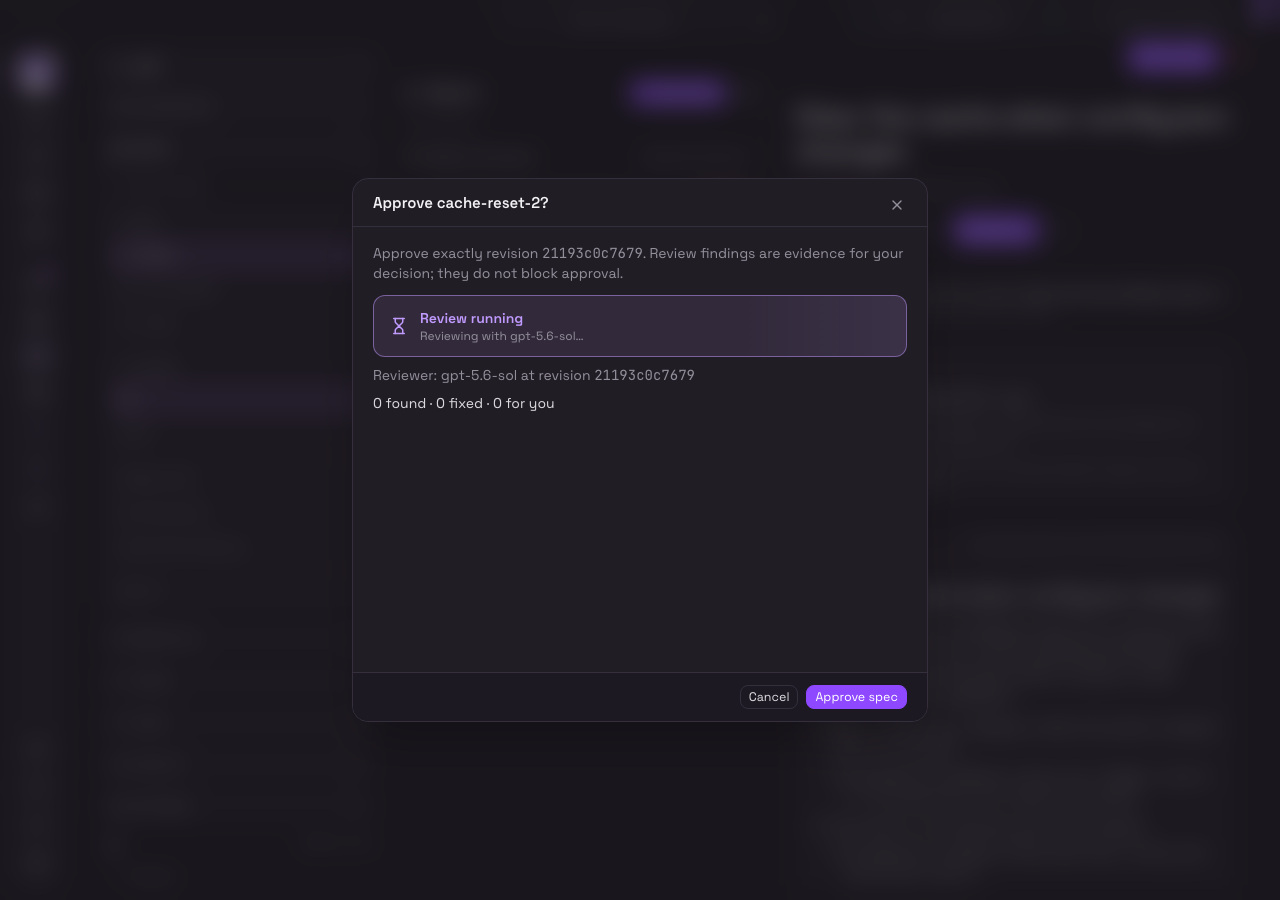
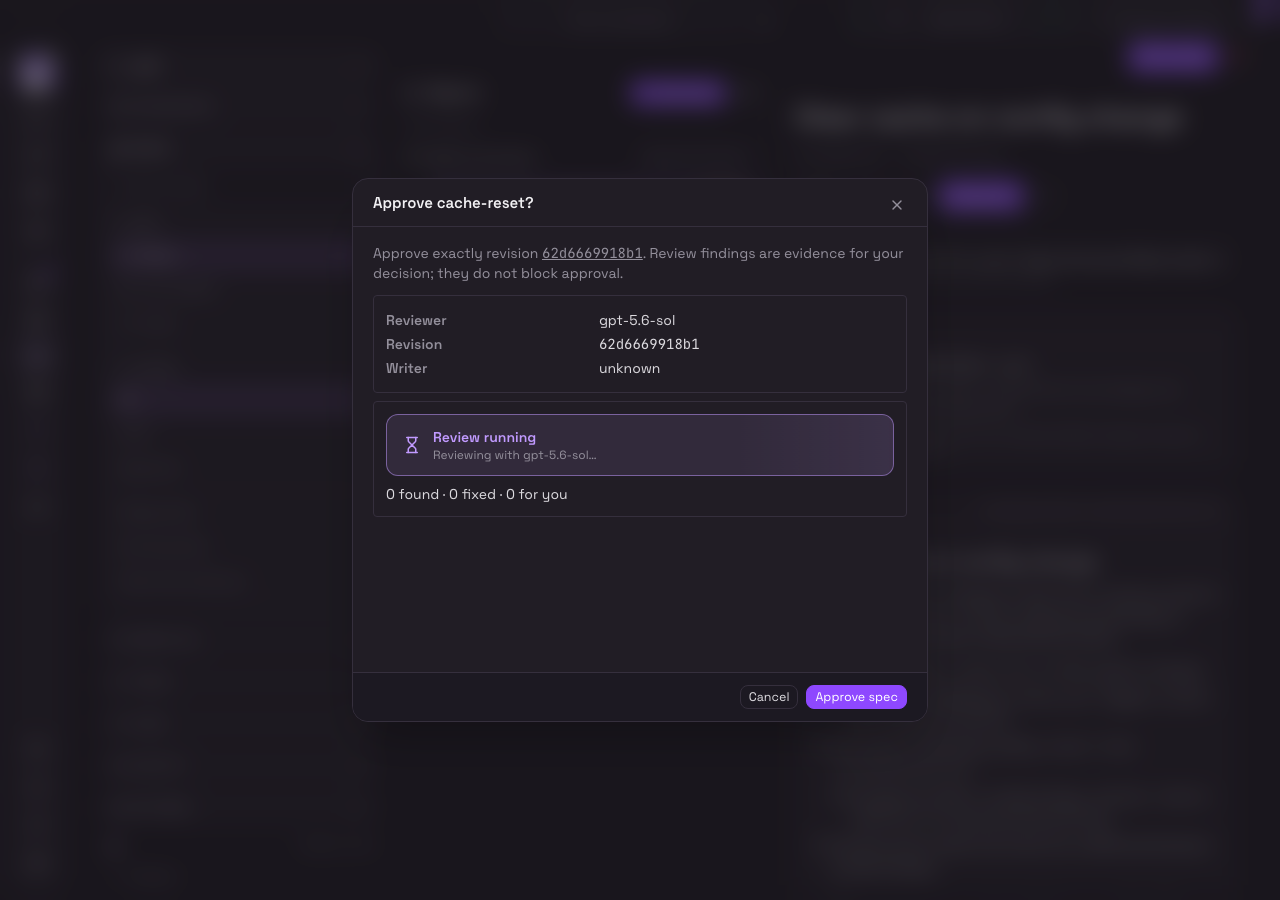
Retake review dialog shots and keep spec wording

diff --git a/kirocrew-app/ui/src/PlansView.tsx b/kirocrew-app/ui/src/PlansView.tsx
@@ -1452,7 +1452,7 @@ export function ApproveSpecDialog(props: { workspaceId: string; plan: SpecPlan; 
           ) : <Tooltip text={plan.hash}><code>{shortHash(plan.hash)}</code></Tooltip>}
           . Review findings are evidence for your decision; they do not block approval.
         </p>
-        {moved && <p role="status" className="m-0" data-revision-moved>The plan changed while it was reviewed. Approve now targets revision <code>{shortHash(plan.hash)}</code>.</p>}
+        {moved && <p role="status" className="m-0" data-revision-moved>The spec changed while it was reviewed. Approve now targets revision <code>{shortHash(plan.hash)}</code>.</p>}
         {showDiff && base && (
           <section data-revision-diff className="flex flex-col gap-2">
             <p className="m-0 text-xs text-muted">Changes since {base.approved ? 'approved' : 'previous'} revision <code>{shortHash(base.hash)}</code></p>

diff --git a/docs/evidence/review-loading.md b/docs/evidence/review-loading.md
@@ -1,7 +1,7 @@
 # Plan review in progress: Kiro Crew's working box
 
 Captured 2026-11-17 in a throwaway Kiro Crew 0.12.2.4 (own home, port
-5697), with this branch's UI bundle installed, on spec `cache-reset-2`.
+5697), with this branch's UI bundle installed, on spec `cache-reset-2` (first pass) and the draft `cache-reset` (second pass, after `cache-reset-2` was approved).
 Approve was never pressed and nothing was written to GitHub.
 
 ## What changed
@@ -14,6 +14,25 @@ tint, a 50% border, a band of the same tint sweeping across in 2 s
 Crew keeps purple for AI work in every theme. The box is `role="status"`,
 `aria-live="polite"`, labeled "Reviewing with <model>…". Under
 `prefers-reduced-motion` the box stays and the sweep stops.
+
+## Second pass: live refresh and boxes
+
+- **Live refresh.** While the review is `running`, the dialog re-reads
+  Avoozl's stored review summary every 3 s (`plan.reviewSummary`, no GitHub
+  call). When it settles, the findings appear in place. If the planner wrote
+  a new revision meanwhile, the dialog reloads the spec, says so, and
+  Approve targets the new revision.
+- **Revision link.** The revision in "Approve exactly revision …" opens the
+  diff, per file, since the last approved revision (else the previous one).
+- **Reviewer box.** Its own bordered box: a Reviewer / Revision / Writer
+  table, with each caveat as a tinted note under it.
+- **Status box.** A separate bordered box: the purple working box while the
+  review runs, else the state, plus "Review queued" and the counts.
+
+`avoozl-desktop-light-settled.png` was taken in the same open dialog after
+the running round was deleted from the store: the box cleared on its own.
+The harness ran an older backend, so Writer reads "unknown" there; this
+branch adds `writerModel` to the summary.
 
 ## How the state was shown
 
@@ -33,6 +52,8 @@ was generated; those shots are cropped to the banner.
 | Phone 390, light | `avoozl-phone-light.png` |
 | Phone 390, dark | `avoozl-phone-dark.png` |
 | Desktop, reduced motion | `avoozl-desktop-light-reduced-motion.png` |
+| Same dialog after the review settled | `avoozl-desktop-light-settled.png` |
+| Revision diff opened | `avoozl-desktop-light-diff.png` |
 | Kiro Crew Projects banner, light | `kirocrew-projects-planning-light.png` |
 | Kiro Crew Projects banner, dark | `kirocrew-projects-planning-dark.png` |
 
